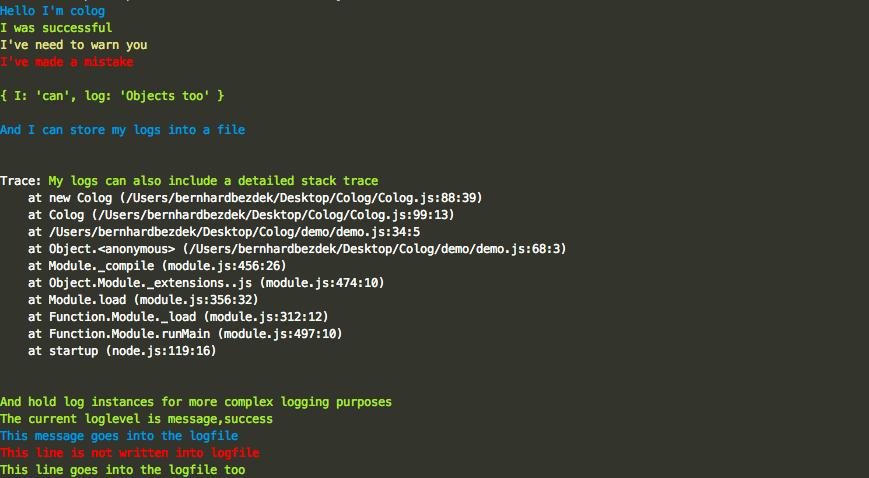
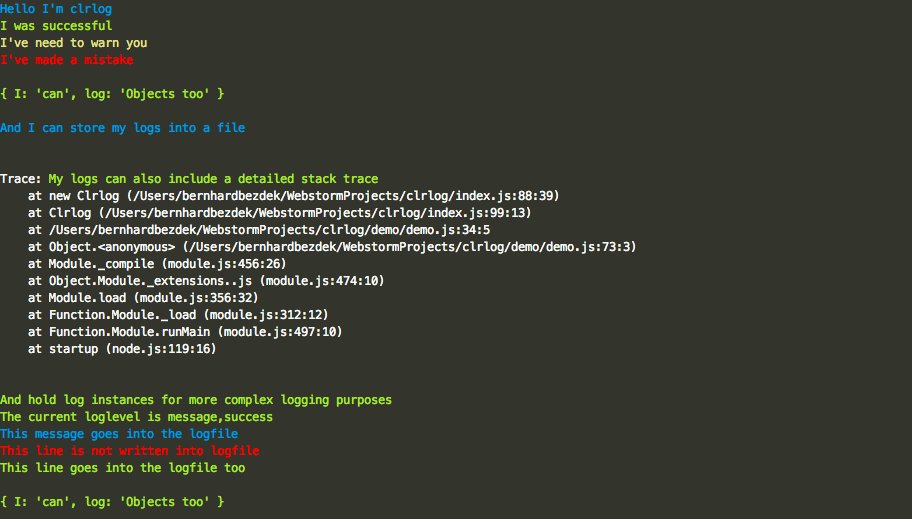
Added object return if colrlog was caled as function

Changed region(s): [[0.0, 0.3222, 0.7146, 0.9958], [0.0, 0.1757, 0.2796, 0.2929], [0.0, 0.0, 0.1864, 0.1464]]

diff --git a/demo/demo.js b/demo/demo.js
@@ -9,10 +9,10 @@
     var Clrlog = require(__dirname + '/../index.js');
 
     ////////////////////////////////////////////////////////
-    /////Call Clrlog like a plain old javascript funtion/////
+    /////Call Clrlog like a plain old javascript funtion////
     ////////////////////////////////////////////////////////
 
-    Clrlog("Hello I'm Clrlog");
+    Clrlog("Hello I'm clrlog");
     Clrlog("I was successful", 'success');
     Clrlog("I've need to warn you ", 'warning');
     Clrlog("I've made a mistake", 'error');
@@ -25,7 +25,7 @@
 
 
     // Save log messages in a file
-    Clrlog("And I can store my logs into a file", 'message', __dirname + '/example.log');
+   var  oFirsInstance = Clrlog("And I can store my logs into a file", 'message', __dirname + '/example.log');
 
     console.log("");
     console.log("");
@@ -37,7 +37,7 @@
     console.log("");
 
     ////////////////////////////////////////////////////////
-    /////Call Clrlog as an object for more comples stuff/////
+    /////Call Clrlog as an object for more comples stuff////
     ////////////////////////////////////////////////////////
 
     var myClrlog = new Clrlog("And hold log instances for more complex logging purposes", 'success', __dirname + '/application.log');

diff --git a/index.js b/index.js
@@ -22,6 +22,7 @@ var Clrlog = null;
      * @param {String} sType default 'message' (message, success, warning, error available)
      * @param {Boolean} sLogFile write messages into a log file (default none)
      * @param {Boolean} bTraceErrors Determine if errormessages should output as a trace shutdown application (default false)
+     * @return {Object} A Clrlog object (if called as a function
      */
     Clrlog = function (mLogdata, sType, sLogFile, bTraceErrors) {
 
@@ -96,7 +97,7 @@ var Clrlog = null;
             }
         } else {
             // If it was a function call run as a class instance
-            new Clrlog(mLogdata, sType, sLogFile, bTraceErrors);
+            return new Clrlog(mLogdata, sType, sLogFile, bTraceErrors);
         }
     };
 
